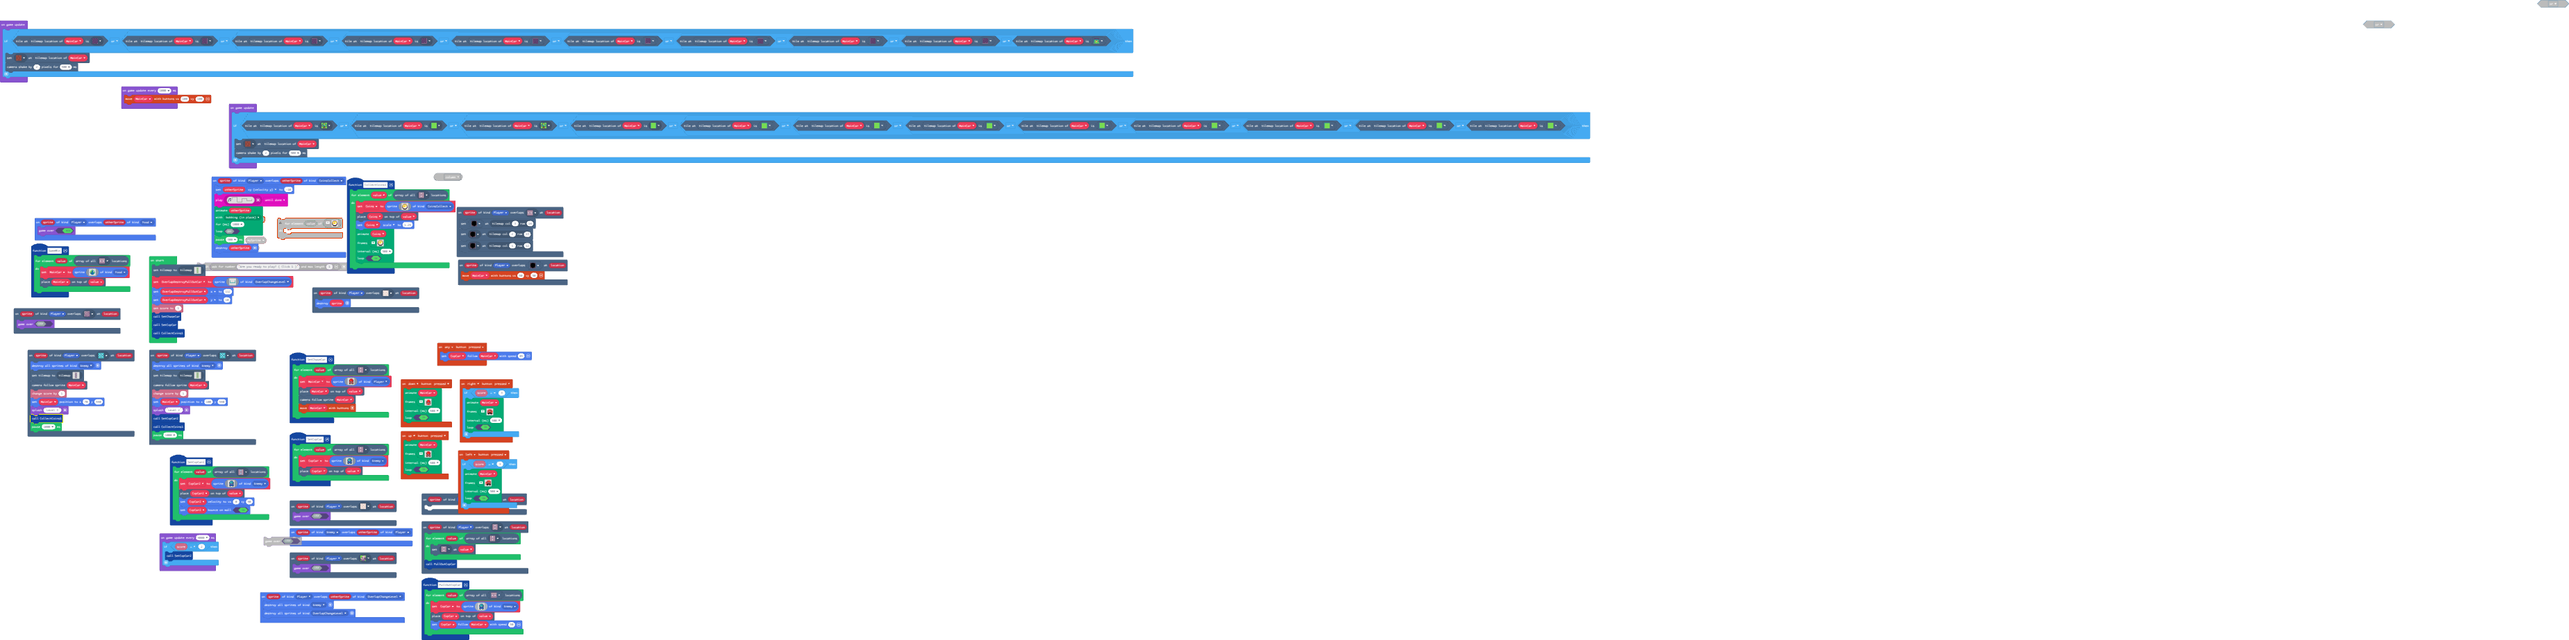
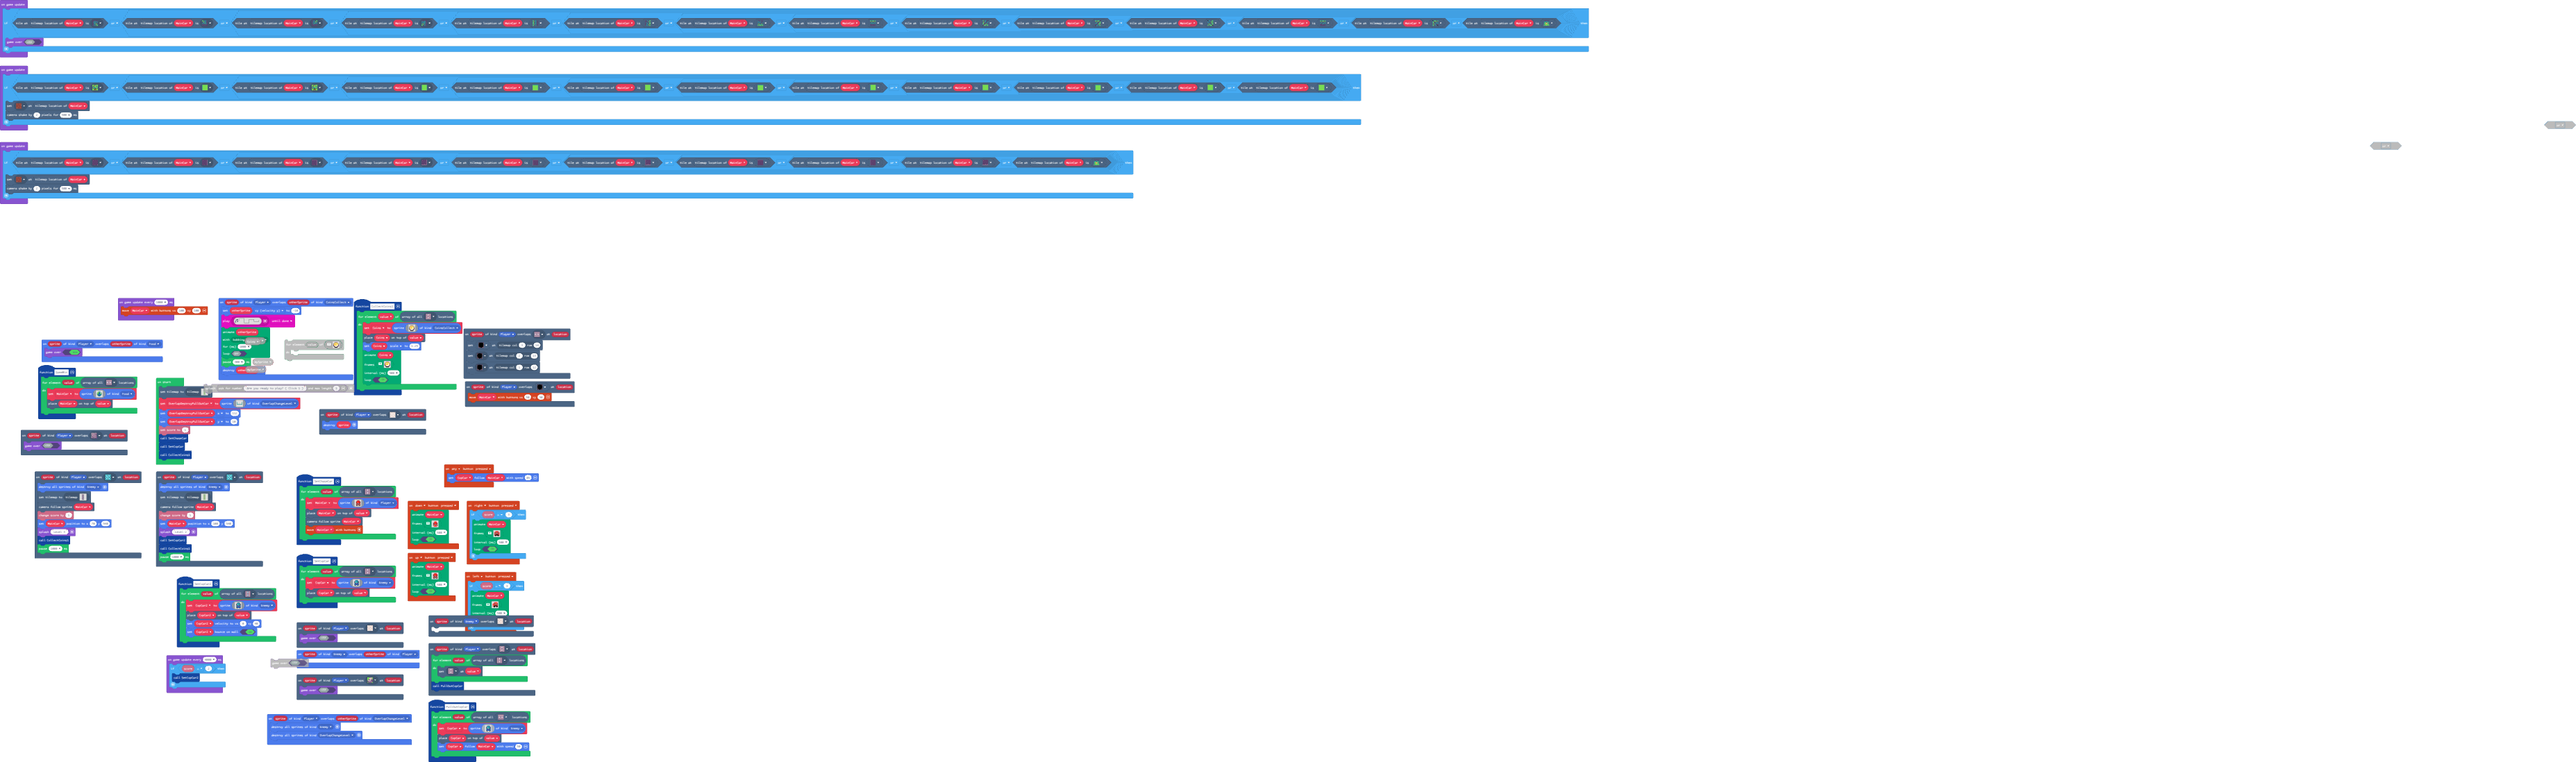
Update main.blocks, main.ts

diff --git a/main.ts b/main.ts
@@ -409,13 +409,18 @@ SetChaseCar()
 SetCopCar()
 CollectCoins1()
 game.onUpdate(function () {
-    if (tiles.tileAtLocationEquals(MainCar.tilemapLocation(), sprites.dungeon.darkGroundNorthWest1) || (tiles.tileAtLocationEquals(MainCar.tilemapLocation(), sprites.dungeon.darkGroundEast) || (tiles.tileAtLocationEquals(MainCar.tilemapLocation(), sprites.dungeon.darkGroundNorthEast0) || (tiles.tileAtLocationEquals(MainCar.tilemapLocation(), sprites.dungeon.darkGroundSouthEast0) || (tiles.tileAtLocationEquals(MainCar.tilemapLocation(), sprites.dungeon.darkGroundNorthWest0) || (tiles.tileAtLocationEquals(MainCar.tilemapLocation(), sprites.dungeon.darkGroundSouthWest0) || (tiles.tileAtLocationEquals(MainCar.tilemapLocation(), sprites.dungeon.darkGroundNorth) || (tiles.tileAtLocationEquals(MainCar.tilemapLocation(), sprites.dungeon.darkGroundWest) || (tiles.tileAtLocationEquals(MainCar.tilemapLocation(), sprites.dungeon.darkGroundSouth) || tiles.tileAtLocationEquals(MainCar.tilemapLocation(), sprites.dungeon.greenOuterSouth2)))))))))) {
+    if (tiles.tileAtLocationEquals(MainCar.tilemapLocation(), sprites.dungeon.greenInnerNorthWest) || (tiles.tileAtLocationEquals(MainCar.tilemapLocation(), sprites.dungeon.greenInnerSouthEast) || (tiles.tileAtLocationEquals(MainCar.tilemapLocation(), sprites.dungeon.greenInnerSouthWest) || (tiles.tileAtLocationEquals(MainCar.tilemapLocation(), sprites.dungeon.greenInnerNorthEast) || (tiles.tileAtLocationEquals(MainCar.tilemapLocation(), sprites.dungeon.greenOuterWest0) || (tiles.tileAtLocationEquals(MainCar.tilemapLocation(), sprites.dungeon.greenOuterEast1) || (tiles.tileAtLocationEquals(MainCar.tilemapLocation(), sprites.dungeon.greenOuterSouth0) || (tiles.tileAtLocationEquals(MainCar.tilemapLocation(), sprites.dungeon.greenOuterNorth0) || (tiles.tileAtLocationEquals(MainCar.tilemapLocation(), sprites.dungeon.greenOuterSouthEast) || (tiles.tileAtLocationEquals(MainCar.tilemapLocation(), sprites.dungeon.greenOuterNorthEast) || (tiles.tileAtLocationEquals(MainCar.tilemapLocation(), sprites.dungeon.greenOuterSouthWest) || (tiles.tileAtLocationEquals(MainCar.tilemapLocation(), sprites.dungeon.greenOuterNorth1) || (tiles.tileAtLocationEquals(MainCar.tilemapLocation(), sprites.dungeon.greenOuterNorthWest) || tiles.tileAtLocationEquals(MainCar.tilemapLocation(), sprites.dungeon.greenOuterSouth2)))))))))))))) {
+        game.gameOver(false)
+    }
+})
+game.onUpdate(function () {
+    if (tiles.tileAtLocationEquals(MainCar.tilemapLocation(), assets.tile`myTile10`) || (tiles.tileAtLocationEquals(MainCar.tilemapLocation(), sprites.skillmap.islandTile3) || (tiles.tileAtLocationEquals(MainCar.tilemapLocation(), assets.tile`myTile10`) || (tiles.tileAtLocationEquals(MainCar.tilemapLocation(), assets.tile`myTile8`) || (tiles.tileAtLocationEquals(MainCar.tilemapLocation(), assets.tile`myTile6`) || (tiles.tileAtLocationEquals(MainCar.tilemapLocation(), sprites.skillmap.islandTile5) || (tiles.tileAtLocationEquals(MainCar.tilemapLocation(), sprites.skillmap.islandTile1) || (tiles.tileAtLocationEquals(MainCar.tilemapLocation(), assets.tile`myTile7`) || (tiles.tileAtLocationEquals(MainCar.tilemapLocation(), assets.tile`myTile1`) || (tiles.tileAtLocationEquals(MainCar.tilemapLocation(), assets.tile`myTile2`) || (tiles.tileAtLocationEquals(MainCar.tilemapLocation(), assets.tile`myTile4`) || tiles.tileAtLocationEquals(MainCar.tilemapLocation(), sprites.skillmap.islandTile4)))))))))))) {
         tiles.setTileAt(MainCar.tilemapLocation(), assets.tile`myTile9`)
         scene.cameraShake(2, 500)
     }
 })
 game.onUpdate(function () {
-    if (tiles.tileAtLocationEquals(MainCar.tilemapLocation(), assets.tile`myTile10`) || (tiles.tileAtLocationEquals(MainCar.tilemapLocation(), sprites.skillmap.islandTile3) || (tiles.tileAtLocationEquals(MainCar.tilemapLocation(), assets.tile`myTile10`) || (tiles.tileAtLocationEquals(MainCar.tilemapLocation(), assets.tile`myTile8`) || (tiles.tileAtLocationEquals(MainCar.tilemapLocation(), assets.tile`myTile6`) || (tiles.tileAtLocationEquals(MainCar.tilemapLocation(), sprites.skillmap.islandTile5) || (tiles.tileAtLocationEquals(MainCar.tilemapLocation(), sprites.skillmap.islandTile1) || (tiles.tileAtLocationEquals(MainCar.tilemapLocation(), assets.tile`myTile7`) || (tiles.tileAtLocationEquals(MainCar.tilemapLocation(), assets.tile`myTile1`) || (tiles.tileAtLocationEquals(MainCar.tilemapLocation(), assets.tile`myTile2`) || (tiles.tileAtLocationEquals(MainCar.tilemapLocation(), assets.tile`myTile4`) || tiles.tileAtLocationEquals(MainCar.tilemapLocation(), sprites.skillmap.islandTile4)))))))))))) {
+    if (tiles.tileAtLocationEquals(MainCar.tilemapLocation(), sprites.dungeon.darkGroundNorthWest1) || (tiles.tileAtLocationEquals(MainCar.tilemapLocation(), sprites.dungeon.darkGroundEast) || (tiles.tileAtLocationEquals(MainCar.tilemapLocation(), sprites.dungeon.darkGroundNorthEast0) || (tiles.tileAtLocationEquals(MainCar.tilemapLocation(), sprites.dungeon.darkGroundSouthEast0) || (tiles.tileAtLocationEquals(MainCar.tilemapLocation(), sprites.dungeon.darkGroundNorthWest0) || (tiles.tileAtLocationEquals(MainCar.tilemapLocation(), sprites.dungeon.darkGroundSouthWest0) || (tiles.tileAtLocationEquals(MainCar.tilemapLocation(), sprites.dungeon.darkGroundNorth) || (tiles.tileAtLocationEquals(MainCar.tilemapLocation(), sprites.dungeon.darkGroundWest) || (tiles.tileAtLocationEquals(MainCar.tilemapLocation(), sprites.dungeon.darkGroundSouth) || tiles.tileAtLocationEquals(MainCar.tilemapLocation(), sprites.dungeon.greenOuterSouth2)))))))))) {
         tiles.setTileAt(MainCar.tilemapLocation(), assets.tile`myTile9`)
         scene.cameraShake(2, 500)
     }
